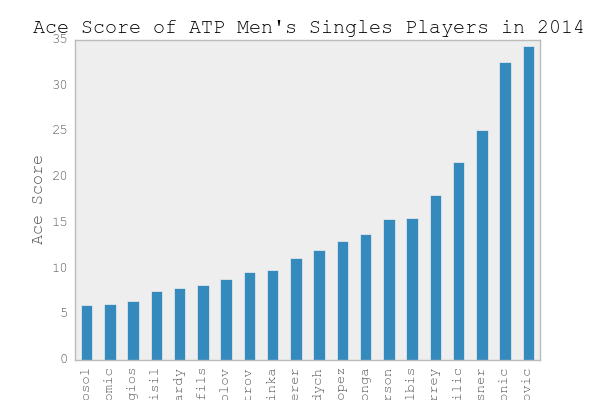
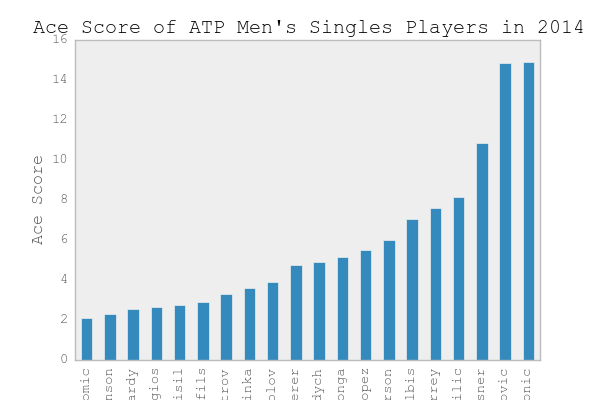
more figures
more figures

diff --git a/BestServeInTennis.py b/BestServeInTennis.py
@@ -3,9 +3,10 @@ import pandas as pd
 import numpy as np
 
 dirname = 'C:\\Users\\Me\\Documents\\GitHub\\tennis_stats_atp\\'
-year = '2014'
+year = '2006'
 Surf = 'Hard'
 cut_off = 0.0
+b = 4
 
 df = pd.read_csv(dirname+'atp_matches_'+year+'.csv')
 # drop unimportant columns
@@ -51,7 +52,9 @@ master_df = acedf.join(norms, on='name')
 master_df = master_df.dropna() 
 #remove nans
 
-master_df['weight']  = 1.0*(master_df['w_avgAGm']-master_df['N'])
+#Kinds of functions
+master_df['weight']  = np.exp(-1.0/2/b**2*(master_df['w_avgAGm']-master_df['N'])**2)
+master_df['weight']  = (master_df['w_avgAGm']-master_df['N'])
 master_df = master_df[['winner_name', 'weight']]
 master_df.rename(columns={'weight': 'ace_score'}, inplace=True)
 master_df = master_df.groupby(['winner_name'], as_index=False).aggregate(np.sum)
